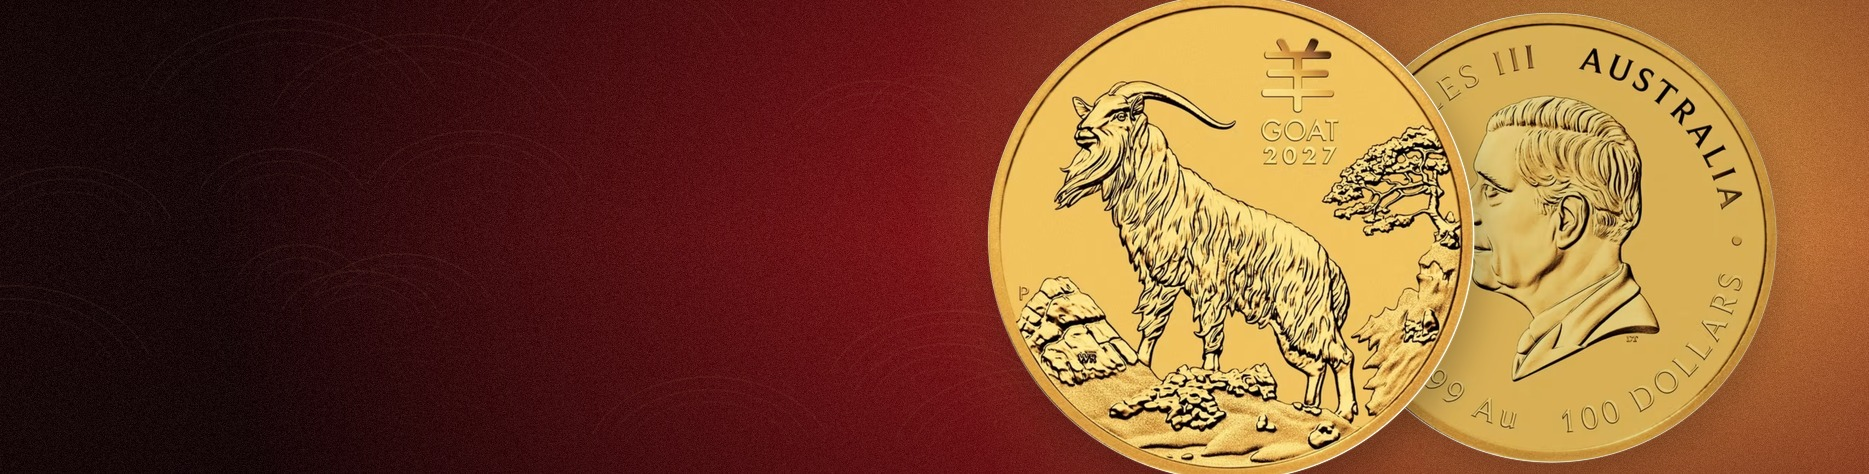
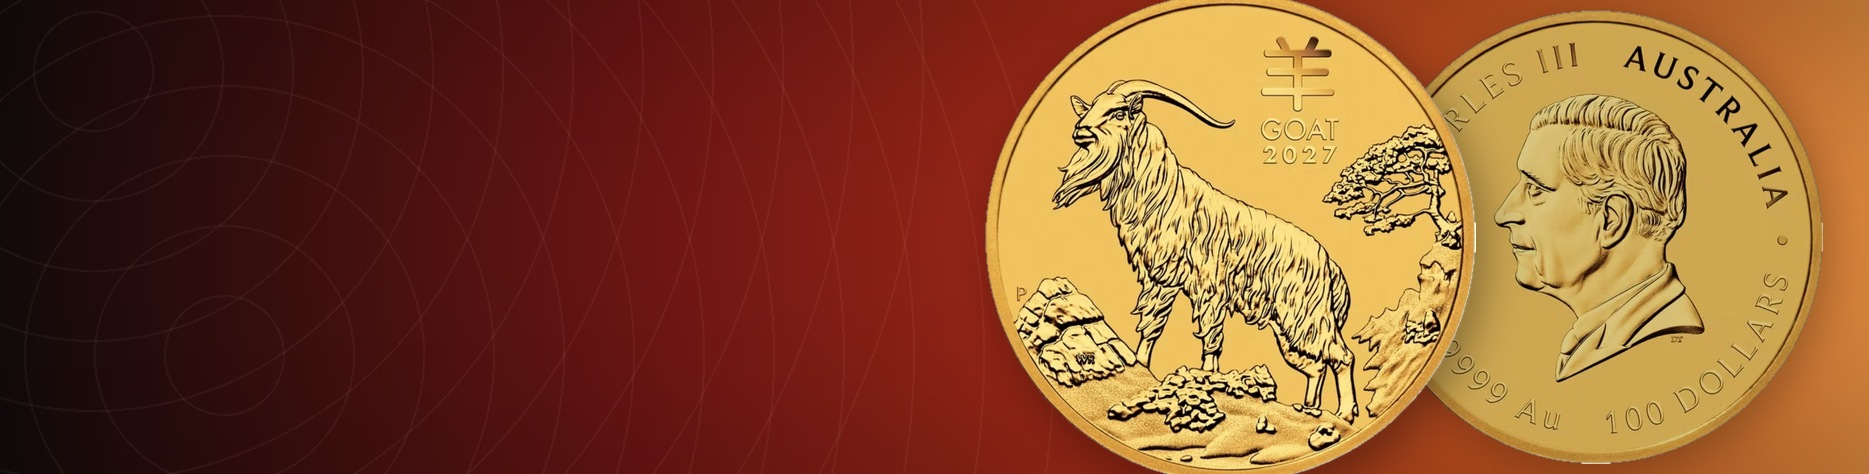
2027 양띠 히어로 슬라이드: 앞/뒤 코인 겹침 축소 + 모바일 코인 크기/위치 보정
- images/header-slide-goat-2027.jpg: 앞/뒤 코인 겹침 정도를 줄여 뒷면(찰스3세) 노출 확대 (해상도는 원본 1869px 유지)
- index.html: 슬라이드 div에 data-slug 속성 추가 (슬라이드별 모바일 CSS 타겟팅용)
- assets/css/style.css: 모바일(~768px 이하)에서 goat-2027 슬라이드 코인이 과도하게 확대/우측 크롭되던 문제 보정 (background-size 150%, position 89% center)

diff --git a/assets/css/style.css b/assets/css/style.css
@@ -327,6 +327,10 @@ img { max-width: 100%; display: block; }
   .cat-coin-img { width: 155px; height: 155px; }
   .hero-slider { height: 400px; }
   .slide-title { font-size: 24px; }
+  /* 2027 양띠 슬라이드: 모바일에서 코인이 크게 잘려 보이는 문제 보정
+     (원본 배경 이미지가 가로로 매우 길어 좁은 화면에서 cover 크롭 시
+     코인이 과도하게 확대/우측 크롭됨) */
+  .slide[data-slug="goat-2027"] { background-size: 150% auto !important; background-position: 89% center !important; }
   .products-grid { grid-template-columns: repeat(2, 1fr); gap: 12px; }
   .product-info { padding: 10px; }
   .product-name { font-size: 13px; }

diff --git a/index.html b/index.html
@@ -216,7 +216,7 @@
           ? `<p class="slide-subtitle">${s.subtitle}</p>`
           : '';
         return `
-      <div class="${slideClass}"${bgStyle} data-duration="${slideDurationMs}">
+      <div class="${slideClass}"${bgStyle} data-duration="${slideDurationMs}" data-slug="${s.slug || ''}">
         ${videoBg}
         ${cycleBg}
         <div class="slide-content">
